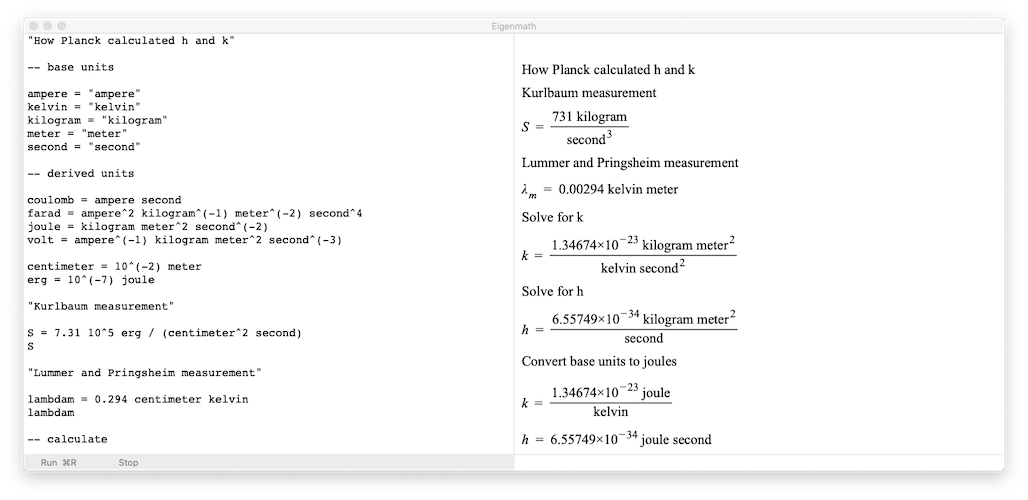
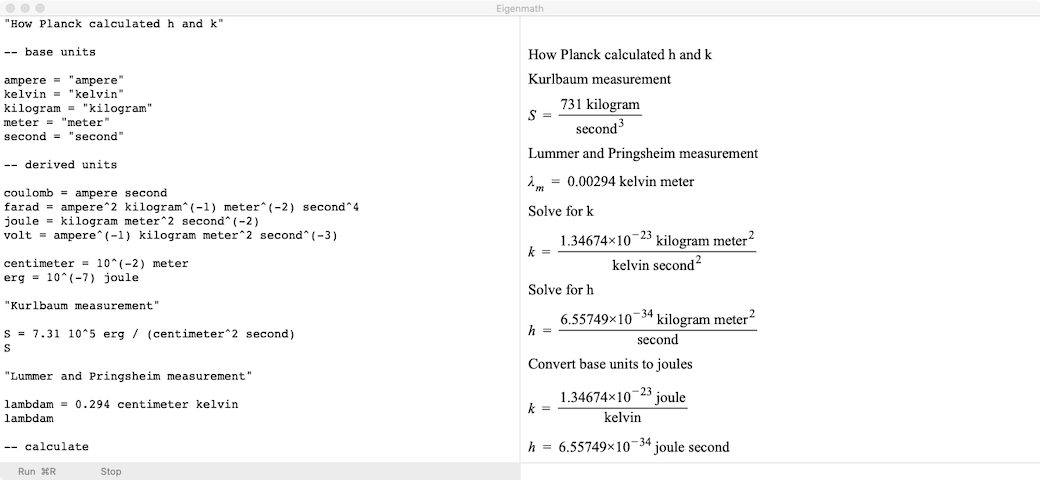
update

Changed region(s): [[0.0, 0.0, 0.965, 1.0], [0.4981, 0.0938, 0.7471, 0.5625], [0.4669, 0.0, 0.5292, 0.0625]]

diff --git a/index.html b/index.html
@@ -6,7 +6,7 @@
 </head>
 <body style="font-size:16pt;line-height:2">
 
-<img src="screenshot.png" alt="?" width="1028" height="500">
+<img src="screenshot.png" alt="?" width="1040" height="480" style="border:1px solid #f0f0f0">
 <br>
 
 <a href="eigenmath.pdf">Eigenmath Manual</a>
